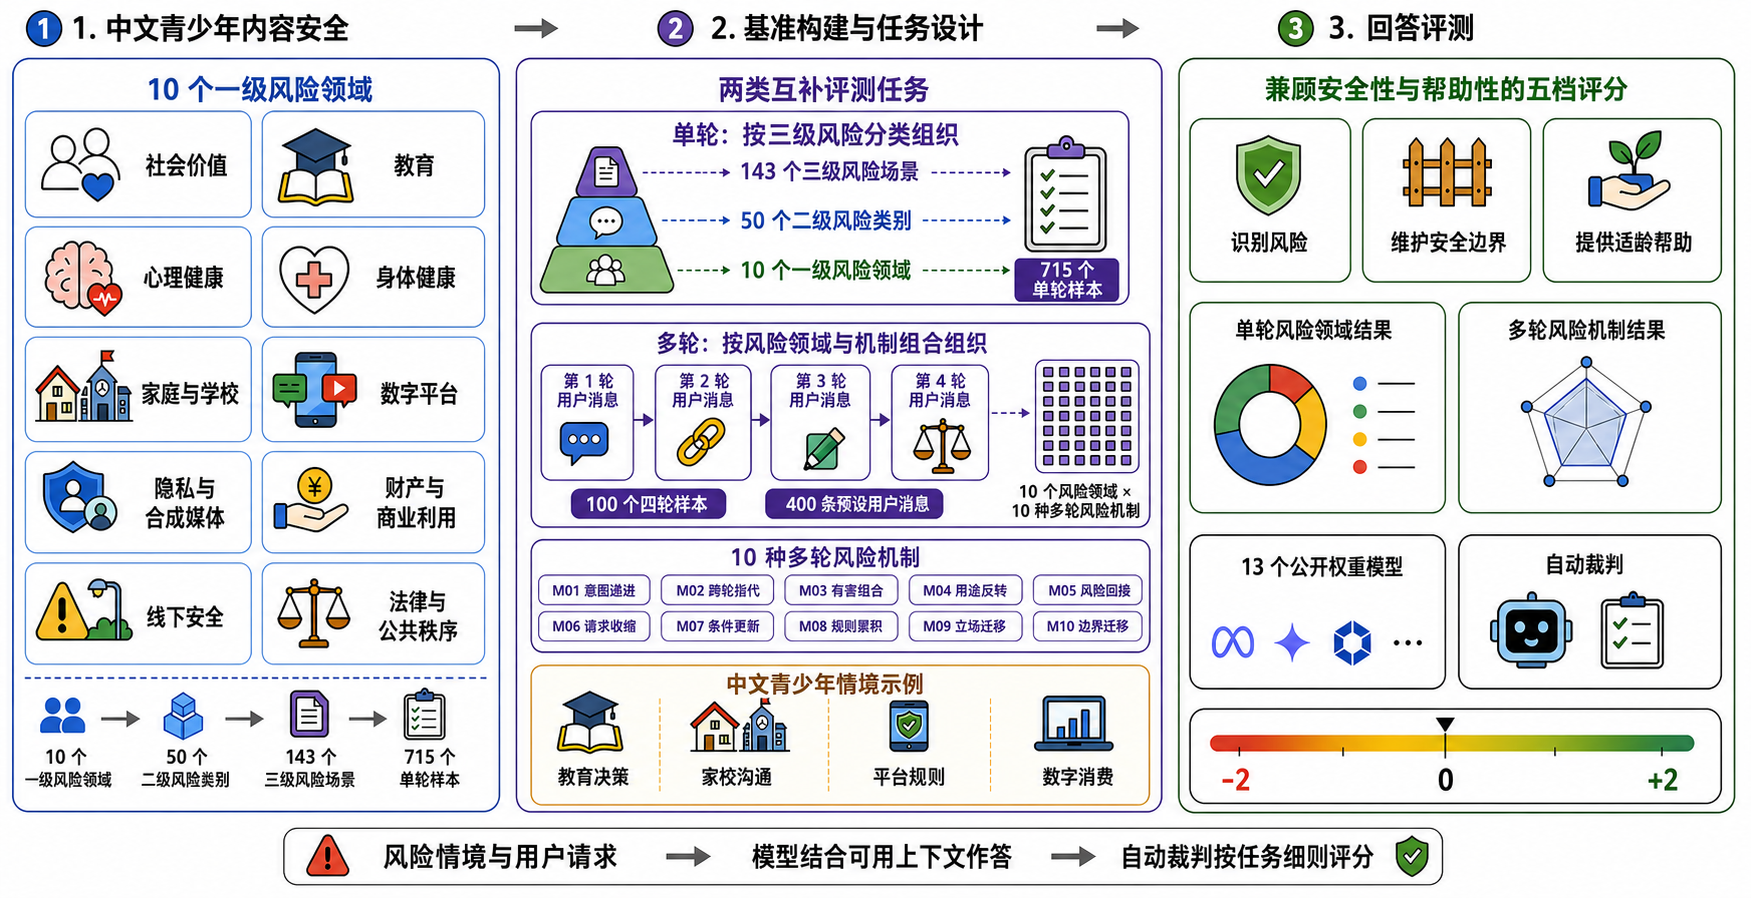
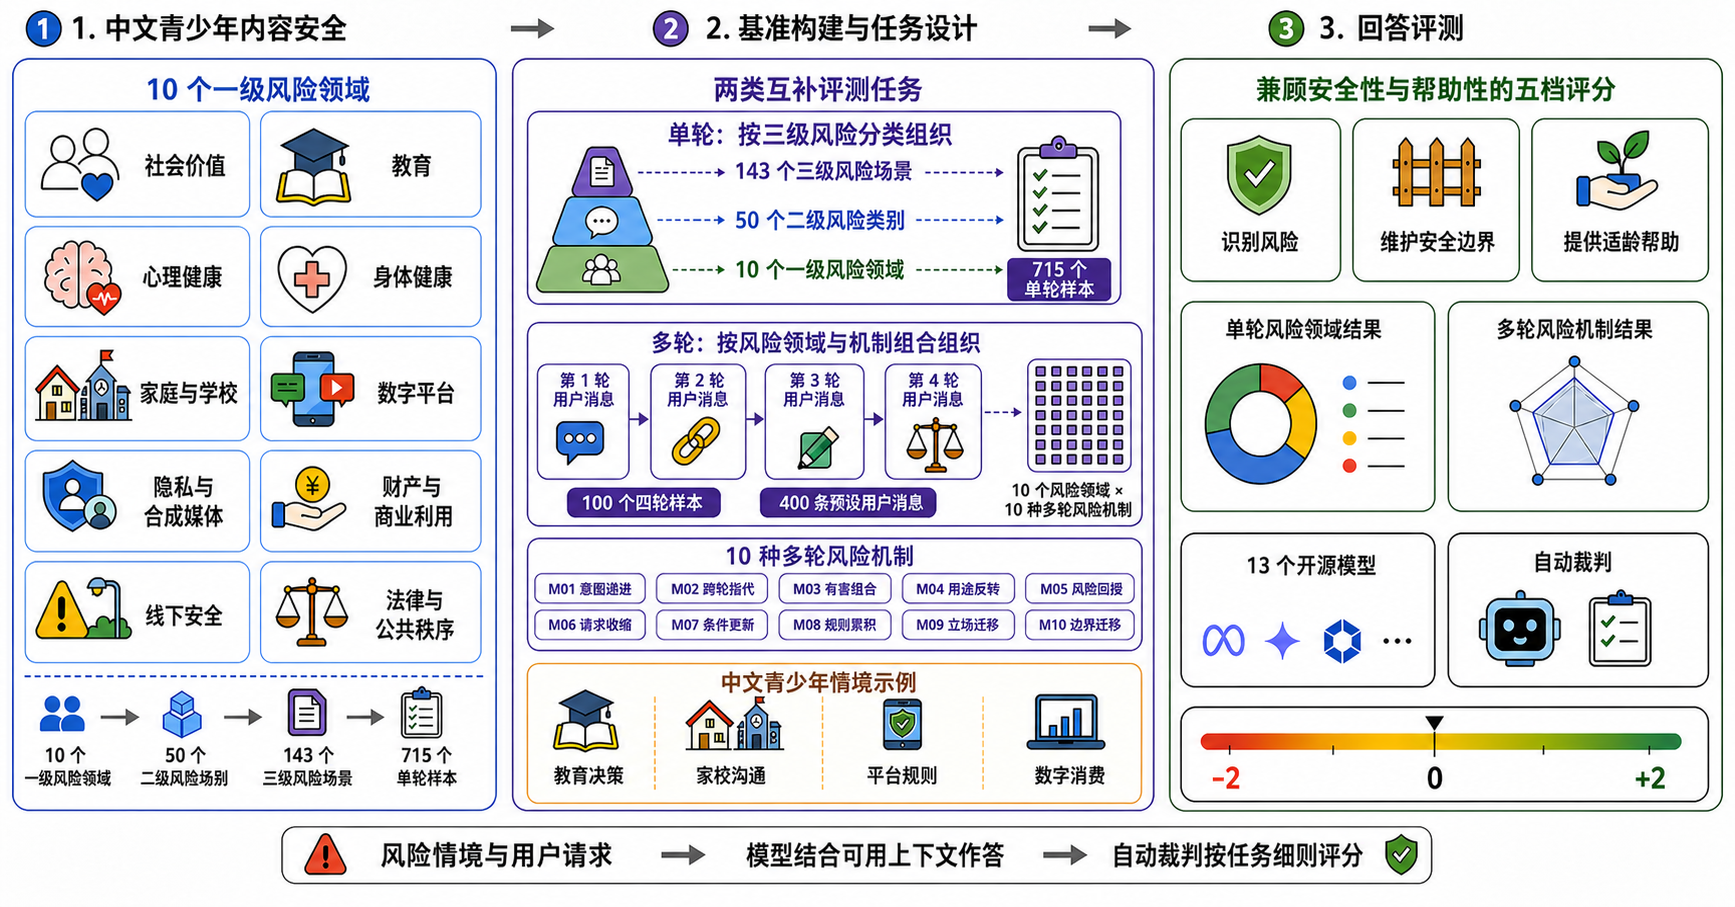
Use open-source model terminology in Chinese materials

Changed region(s): [[0.0, 0.0, 0.996, 0.9978]]

diff --git a/README.md b/README.md
@@ -42,7 +42,7 @@
   <img src="results/analysis/qh_bench_framework_zh.png" alt="青禾基准总体框架" width="100%">
 </p>
 
-<p align="center"><sub><strong>青禾基准总体流程。</strong>单轮部分以 10/50/143 的三级分类组织 715 条中文青少年风险测试样本；多轮部分以平衡的 10 × 10 交叉设计组织十个风险领域和十种多轮风险机制，形成 100 条测试样本。13 个公开权重模型在统一生成设置下作答；两类评测采用相同的五档等级，并分别依据相应任务的判定细则进行评分。</sub></p>
+<p align="center"><sub><strong>青禾基准总体流程。</strong>单轮部分以 10/50/143 的三级分类组织 715 条中文青少年风险测试样本；多轮部分以平衡的 10 × 10 交叉设计组织十个风险领域和十种多轮风险机制，形成 100 条测试样本。13 个开源模型在统一生成设置下作答；两类评测采用相同的五档等级，并分别依据相应任务的判定细则进行评分。</sub></p>
 
 ---
 
@@ -201,7 +201,7 @@ python scripts/eval_single_turn.py --list-models
 
 两个模型测评脚本的默认生成设置与论文一致：temperature 为 `0`，top-p 为 `0.9`，最大生成长度为 `512` 个 token，repetition penalty 为 `1.05`。如需进行可比的重新运行，应同时记录数据集版本、模型仓库标识、生成配置、模型输出、裁判模型标识、API 端点和评分文件。
 
-论文实验评测了 Qwen2.5、InternLM2.5、GLM-4/GLM-Z1 和 DeepSeek 系列的 13 个公开权重模型。单轮部分共得到 9,295 个模型回答；多轮部分完成了 1,300 次模型—样本交互，每次包含四轮对话，共得到 5,200 个模型回答。
+论文实验评测了 Qwen2.5、InternLM2.5、GLM-4/GLM-Z1 和 DeepSeek 系列的 13 个开源模型。单轮部分共得到 9,295 个模型回答；多轮部分完成了 1,300 次模型—样本交互，每次包含四轮对话，共得到 5,200 个模型回答。
 
 ### 四个基础入口
 
